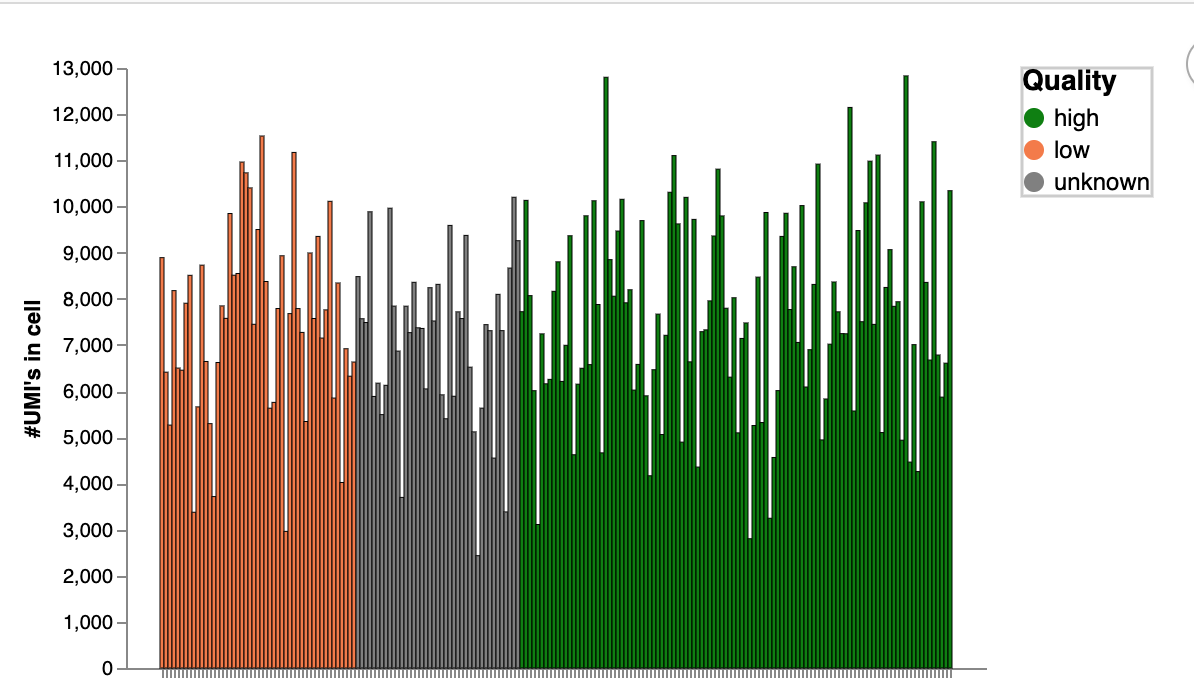
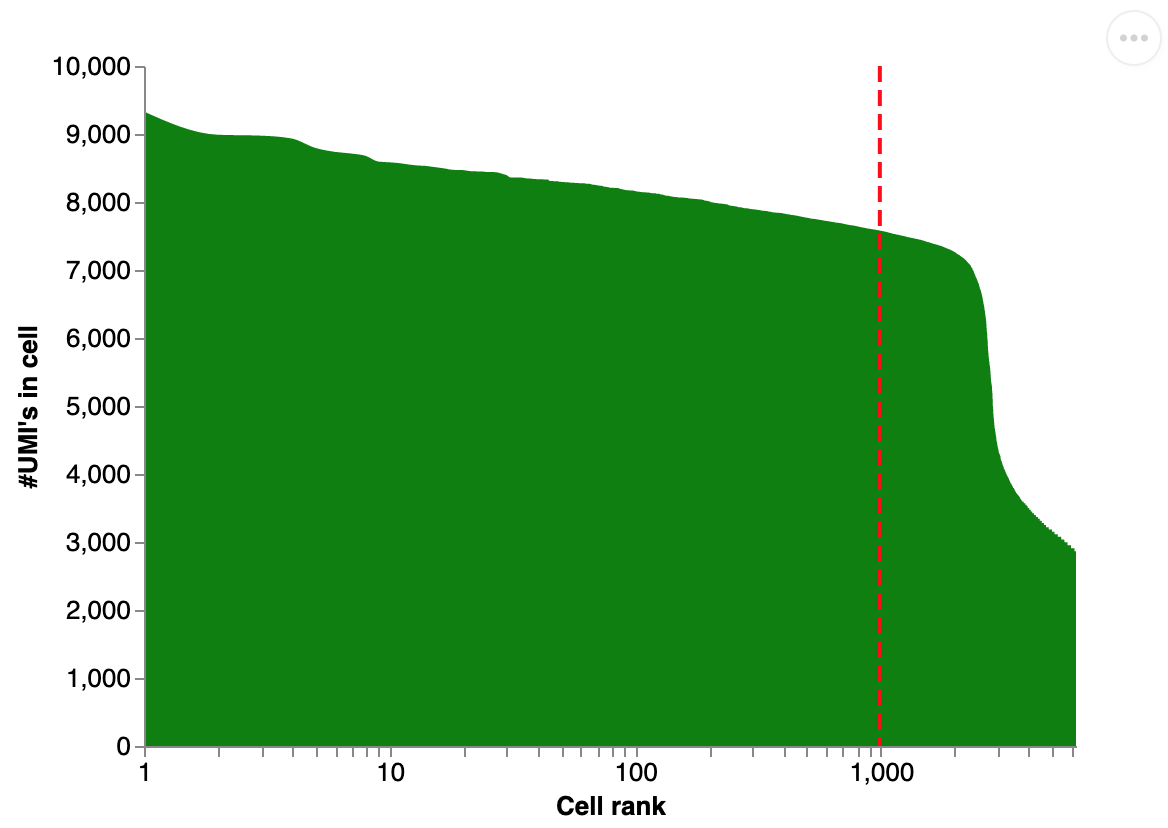
plot looks ok, coloring left

diff --git a/src/pages/data-processing/filter-cells/components/CellSizeDistribution/CellSizeDistribution.jsx b/src/pages/data-processing/filter-cells/components/CellSizeDistribution/CellSizeDistribution.jsx
@@ -28,8 +28,8 @@ class CellSizeDistribution extends React.Component {
       plotToDraw: true,
       data: plotData,
       legendEnabled: true,
-      minCellSize: 3000,
-      minCellSize2: 2600,
+      minCellSize: 10800,
+      minCellSize2: 990,
       xAxisText: '#UMIs in cell',
       yAxisText: '#UMIs * #Cells',
       xAxisText2: 'Cell rank',
@@ -108,11 +108,11 @@ class CellSizeDistribution extends React.Component {
     const coloringExpressionPlot2 = `(datum.u < ${minUnknown}) ? \'low\' : (datum.u >${minHigh}) ? \'high\' : \'unknown\'`;
 
     if (config.legendEnabled) {
-      config.legendOrientation = config.plotToDraw ? 'top-left' : 'bottom';
+      config.legendOrientation = config.plotToDraw ? 'top-left' : 'top-right';
       legend = [
         {
           fill: 'color',
-          orient: 'top-left',
+          orient: config.legendOrientation,
           title: 'Quality',
           labelFont: config.masterFont,
           titleFont: config.masterFont,
@@ -348,8 +348,8 @@ class CellSizeDistribution extends React.Component {
           },
           {
             type: 'formula',
-            as: 'high',
-            expr: 'datum.u<950',
+            as: 'logRankValue',
+            expr: '(log(datum.rank) / LN10)*2200',
           },
           ],
         },
@@ -368,7 +368,7 @@ class CellSizeDistribution extends React.Component {
           type: 'linear',
           range: 'height',
           nice: true,
-          domain: { data: 'plotData2', field: 'rank' },
+          domain: { data: 'plotData2', field: 'logRankValue' },
         },
         {
           name: 'color',
@@ -421,7 +421,7 @@ class CellSizeDistribution extends React.Component {
           encode: {
             enter: {
               x: { scale: 'xscale', field: 'u' },
-              y: { scale: 'yscale', field: 'rank' },
+              y: { scale: 'yscale', field: 'logRankValue' },
               y2: { scale: 'yscale', value: 0 },
               fill: {
                 scale: 'color',
@@ -490,7 +490,7 @@ class CellSizeDistribution extends React.Component {
         this.updatePlotWithChanges({
           xDefaultTitle: config.xAxisText2,
           yDefaultTitle: config.yAxisText2,
-          placeholder: 2600,
+          placeholder: 990,
           sliderMax: 6000,
         });
       }

diff --git a/src/pages/plots-and-tables/volcano/index.jsx b/src/pages/plots-and-tables/volcano/index.jsx
@@ -292,10 +292,8 @@ class PlotsAndTablesViewPage extends React.Component {
             },
 
             {
-
               type: 'formula',
               as: 'neglogpvalue',
-
               expr: '-(log(datum.pvalue) / LN10)',
             },
             {
